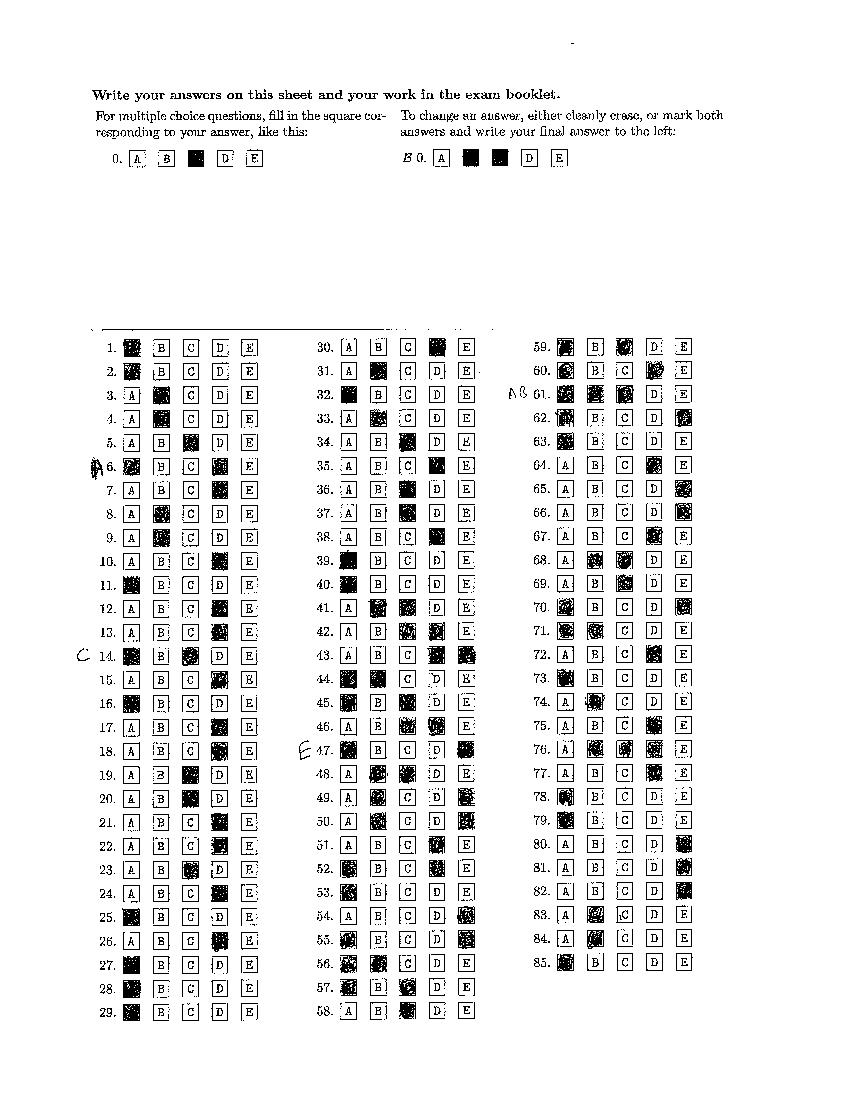
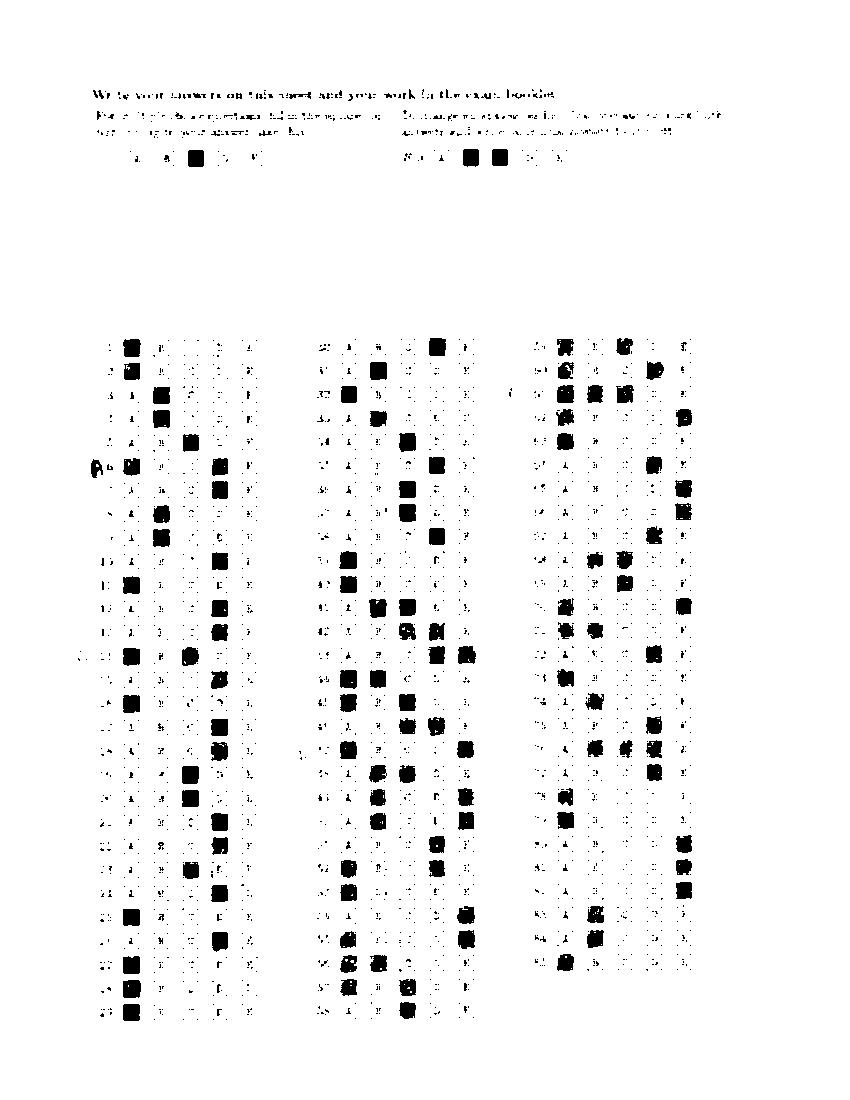
working on filtering image

diff --git a/grade.py b/grade.py
@@ -62,7 +62,7 @@ def convolute2(im,im_px, filter_matrix):
     convol_row, convol_col = filter_matrix.shape
     row_edges = int(convol_row/2)
     col_edges = int(convol_col/2)
-    output_im = Image.new("RGB", (im.width, im.height), color = (0,0,0))
+    output_im = Image.new("L", (im.width, im.height), color = 0)
     for i in range(im.width):
         for j in range(im.height):
             convol_total = np.array([0]*3)
@@ -72,7 +72,7 @@ def convolute2(im,im_px, filter_matrix):
                     interim_2 = edged_im_px[i+x,j+y]
                     interim = np.multiply(interim_1,interim_2)
                     convol_total = interim + convol_total
-            output_im.putpixel((i,j),(int(convol_total[0]),int(convol_total[1]),int(convol_total[2])))
+            output_im.putpixel((i,j),int(convol_total[0]))
 
     return output_im
 
@@ -92,16 +92,18 @@ def grade(form, output_im, output_file):
 
 
     # filter intensities
-    binary_image_filter(im,px)
+   # binary_image_filter(im,px)
 
     # filter with gaussian to get rid of noise
+    box_blur_matrix = 1/9 * np.array([[1.0]*3]*3)
+
     # c - gaussian
     gaussian_matrix = np.array([[0.003, 0.013, 0.022, 0.013, 0.003],
                                 [0.013, 0.059, 0.097, 0.059, 0.013],
                                 [0.022, 0.097, 0.159, 0.097, 0.022],
                                 [0.013, 0.059, 0.097, 0.059, 0.013],
                                 [0.003, 0.013, 0.022, 0.013, 0.003]])
-    im = convolute2(im,px,gaussian_matrix)
+    im = convolute2(im,px,box_blur_matrix)
     px = im.load()
 
 
